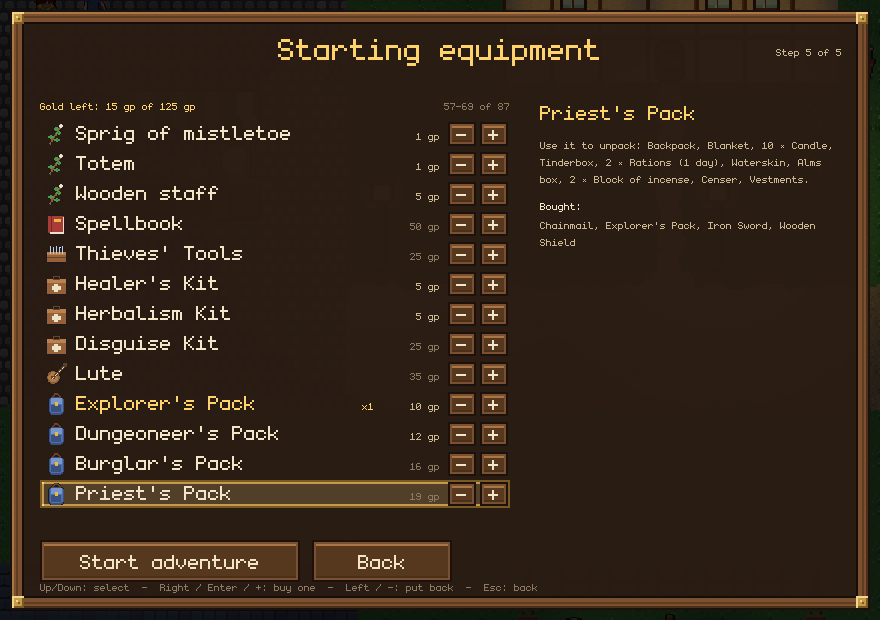
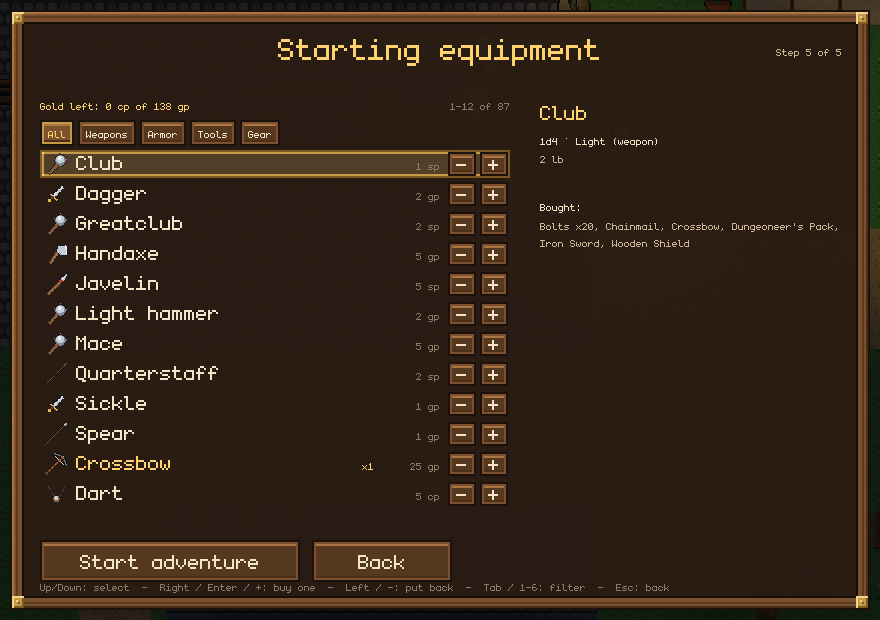
The creator's store starts with the class's starting equipment
- the cart of the starting equipment step holds the class's SRD kit (as far as the store
  sells it); another class fills it with its own kit, swaps survive going back and forth
- the budget is the starting gold or the kit's price, whichever is more, so the kit always
  fits and any part can be swapped
- manual (characters, players' guide, gameplay), changelog, the store step's screenshot

diff --git a/crates/engine/src/runtime/creator.rs b/crates/engine/src/runtime/creator.rs
@@ -16,8 +16,10 @@
 //! 5. *Spells*: the cantrips and spells a class picks at level 1 (a wizard's spellbook, a
 //!    sorcerer's known spells), as a checklist.
 //! 6. *Starting equipment*: the starter store (`CharacterCreation::store`, a character's shop):
-//!    the class's starting gold (`ClassDef::starting_gold`) buys gear instead of the class's
-//!    equipment; what is left stays in the purse.
+//!    the cart starts with the class's equipment (`ClassDef::equipment`, as far as the store has
+//!    it), and the budget is the class's starting gold (`ClassDef::starting_gold`) or the
+//!    equipment's price, whichever is more, so the kit always fits and any part of it can be
+//!    swapped; what is left stays in the purse.
 //!
 //! Keyboard: typing edits the name (page 1; Backspace deletes), Up/Down select a row,
 //! Left/Right change it (a store item: one less / more), Enter goes on (a spell: picks it, an
@@ -165,6 +167,8 @@ pub(super) struct Creator {
     spells: Vec<String>,
     /// The store's cart: item id -> how many.
     cart: BTreeMap<String, u32>,
+    /// The class whose equipment the cart was filled with (filled again for another class).
+    kit_for: Option<usize>,
     /// The store's filter tab.
     store_tab: StoreTab,
     /// The first list row shown (spells, the store).
@@ -626,9 +630,24 @@ impl Game {
         shop.items.iter().filter_map(|e| self.project.db.item(&e.item).map(|d| (e.item.clone(), if e.price > 0 { e.price } else { d.cost_cp }))).collect()
     }
 
-    /// The starting gold (cp) and what the cart costs.
+    /// The class's starting equipment the store sells (item id, how many) and its price (cp).
+    fn creator_kit(&self, c: &Creator) -> (BTreeMap<String, u32>, u32) {
+        let prices: BTreeMap<String, u32> = self.creator_store_all(c).into_iter().collect();
+        let mut kit = BTreeMap::new();
+        let mut value = 0;
+        for st in self.creator_class(c).map_or(&[][..], |cl| &cl.equipment[..]) {
+            if let Some(price) = prices.get(&st.item) {
+                *kit.entry(st.item.clone()).or_insert(0) += st.count.max(1);
+                value += price * st.count.max(1);
+            }
+        }
+        (kit, value)
+    }
+
+    /// The budget (cp: the starting gold or the class's equipment's price, whichever is more)
+    /// and what the cart costs.
     fn creator_purse(&self, c: &Creator) -> (u32, u32) {
-        let gold = self.creator_class(c).map_or(0, |cl| cl.starting_gold_cp());
+        let gold = self.creator_class(c).map_or(0, |cl| cl.starting_gold_cp()).max(self.creator_kit(c).1);
         let prices: BTreeMap<String, u32> = self.creator_store_all(c).into_iter().collect();
         let spent = c.cart.iter().map(|(id, n)| prices.get(id).copied().unwrap_or(0) * n).sum();
         (gold, spent)
@@ -799,6 +818,7 @@ impl Game {
             level: Vec::new(),
             spells: Vec::new(),
             cart: BTreeMap::new(),
+            kit_for: None,
             store_tab: StoreTab::All,
             scroll: 0,
             message: None,
@@ -930,6 +950,7 @@ impl Game {
                 c.level.clear();
                 c.spells.clear();
                 c.cart.clear();
+                c.kit_for = None;
             }
             Row::ClassSkill(slot) => {
                 let mut picks = Self::class_skills_picked(c, cl_choose, cl_n);
@@ -1040,7 +1061,14 @@ impl Game {
         let class = c.class;
         let cl = self.project.db.classes.get(class).cloned();
         let method = self.creator_method(c);
+        let kit = (next == Page::Store && c.kit_for != Some(class)).then(|| self.creator_kit(c).0);
         let c = self.creator.as_mut().unwrap();
+        // The store's cart starts with the class's equipment (again for a class picked since);
+        // the player swaps what they like.
+        if let Some(kit) = kit {
+            c.cart = kit;
+            c.kit_for = Some(class);
+        }
         // The scores follow the class: placed again for a class picked since.
         if next == Page::Abilities && c.placed_for != Some(class) {
             if let Some(m) = method {

diff --git a/Documentation/manual/06-characters.md b/Documentation/manual/06-characters.md
@@ -550,8 +550,12 @@ is. *Next* goes on, *Back* (or Esc) goes back, and *Start adventure* on the last
    store*: a character whose shop stock is sold, the example's and the starter library's
    **Outfitter** with the SRD's weapons, armour, ammunition, spellcasting focuses, tools, packs
    and gear) and the class has **starting gold** (*Database › Classes › Starting gold*, e.g.
-   `5d4x10`; the hero gets the average, 125 gp for a fighter). Instead of the class's starting
-   equipment, the player buys gear: Right, Enter or *+* buys one, Left or *−* puts one back; the
+   `5d4x10`; the hero gets the average, 125 gp for a fighter). The cart starts with the class's
+   **starting equipment** (as far as the store sells it), and the budget is the starting gold or
+   that equipment's price, whichever is more, so the kit always fits: a player who is happy with
+   it just starts, and anyone can swap parts of it. Right, Enter or *+* buys one, Left or *−* puts
+   one back (its price is free again); picking another class fills the cart with that class's
+   kit. The
    tabs over the list (*All*, *Weapons*, *Armor*, *Tools*, *Gear*, *Magic*; click, Tab or 1-6)
    filter it. Gold
    left, what was bought and the selected item (its numbers, weight, text, and a warning when the
@@ -559,7 +563,7 @@ is. *Next* goes on, *Back* (or Esc) goes back, and *Start adventure* on the last
    purse. Without a store (or without starting gold) the hero gets the class's starting equipment as
    before.
 
-![The creator's starter store: a fighter's longsword, chain mail, shield and explorer's pack](../images/game-creator-store.webp)
+![The creator's starter store: a fighter's starting equipment already in the cart (chain mail, sword, shield, crossbow, bolts, dungeoneer's pack)](../images/game-creator-store.webp)
 
 *Start adventure* makes the hero: the scores with the race's increases (racial increases stop at
 20), the project's, the race's, the chosen, the background's and the class's proficiencies, the

diff --git a/Documentation/manual/15-players-guide.md b/Documentation/manual/15-players-guide.md
@@ -283,9 +283,9 @@ place is named under the list (*R2 is also Switch weapon*).
      language…).
   4. *Background*: your background, its languages, a rogue's expertise.
   5. *Spells* (casters): pick your cantrips and spells (a wizard's spellbook) with Enter or a click.
-  6. *Starting equipment*: buy gear with your class's starting gold (Right / Enter / + buys one,
-     Left / − puts it back; the tabs, Tab or 1-6 filter the list); what you don't spend stays in
-     your purse. Enter on *Start adventure*
+  6. *Starting equipment*: your class's starting equipment is already chosen; start with it, or
+     swap parts of it (Left / − puts one back and frees its price, Right / Enter / + buys one; the
+     tabs, Tab or 1-6 filter the list); what you don't spend stays in your purse. Enter on *Start adventure*
      starts the game.
 - **Title screen**: *New game*, *Continue* (the latest save), *Load game*, *Options*, *Achievements*
   (if the game has them), *Exit*. A game may order them differently, leave some out, add a

diff --git a/CHANGELOG.md b/CHANGELOG.md
@@ -87,6 +87,11 @@ All notable changes to R(ust)PG2D (formerly rust2d) (engine, game runner and edi
     Caves holds a giant wolf spider (challenge 1/4) instead of a giant spider (challenge 1), and
     the bridge in the Wilds an ogre (challenge 2) instead of a troll (challenge 5).
   - **Still its own:** Grumbold the cave troll keeps his hand-made block.
+- **The creator's store starts with the class's kit.** The starting equipment step has the
+  class's SRD starting equipment in the cart already, so a player who is happy with it just
+  starts; any part can be put back and swapped. The budget is the starting gold or the kit's
+  price, whichever is more (most kits cost a little more than the average gold), so the kit
+  always fits. Another class fills the cart with its own kit.
 - **Documentation:** the screenshots of the manual and the README that show figures were taken
   again with the kit's people and creatures (21 pictures).
 - **AI agent server:**

diff --git a/Documentation/manual/09-gameplay.md b/Documentation/manual/09-gameplay.md
@@ -270,7 +270,9 @@ a class at their level, and
   picked in the creator and its starting equipment in the inventory (the SRD's first options,
   mapped to the library's items: a fighter's chain mail, iron sword, wooden shield, crossbow and
   bolts). With a starter store in the creator, the class's **starting gold** (the average of its
-  dice, `5d4x10` = 125 gp) buys gear there instead, and the rest stays in the purse; level 1's
+  dice, `5d4x10` = 125 gp) or the equipment's price, whichever is more, is the budget there: the
+  cart starts with the starting equipment, the player swaps what they like, and the rest stays in
+  the purse; level 1's
   choices and spells are picked in the creator too.
 - **Levelling**: every level the hit die adds hit points. When a level brings **choices**, the
   **level-up window** opens as soon as nothing else is going on (no fight, dialog or cut-scene):
